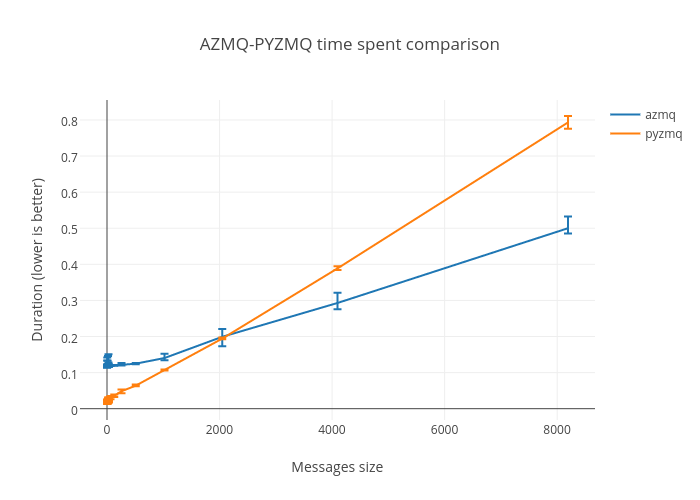
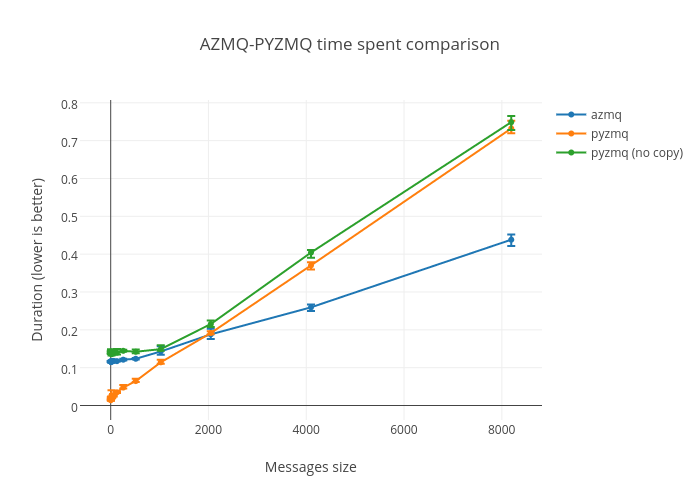
Updated benchmark to include copy=False

diff --git a/benchmark/benchmark-client.py b/benchmark/benchmark-client.py
@@ -9,7 +9,7 @@ import zmq
 
 REPEAT = 10
 DISCARD_EXTREMES = 2
-MESSAGES_SIZES = list(range(32)) + [2 ** exp for exp in range(5, 14)]
+MESSAGES_SIZES = [2 ** exp for exp in range(14)]
 FRAMES_COUNT = 10
 MESSAGES_COUNT = 100
 ENDPOINTS = sys.argv[1:]
@@ -124,7 +124,55 @@ for messages_size in MESSAGES_SIZES:
     pyzmq_durations = sorted(pyzmq_durations)[
         DISCARD_EXTREMES:-DISCARD_EXTREMES
     ]
-    results.append((messages_size, azmq_durations, pyzmq_durations))
+    pyzmq_no_copy_durations = []
+
+    for index in range(1, REPEAT + 1):
+        ctx = zmq.Context()
+        dealer = ctx.socket(zmq.DEALER)
+
+        for endpoint in ENDPOINTS:
+            dealer.connect(endpoint)
+
+        logger.info(
+            "pyzmq (no copy) - %s - %s/%s - Started.",
+            messages_size,
+            index,
+            REPEAT,
+        )
+
+        try:
+            before = timefunc()
+
+            for msg in messages:
+                dealer.send_multipart(msg, copy=False)
+
+            for _ in range(len(messages)):
+                dealer.recv_multipart(copy=False)
+        finally:
+            after = timefunc()
+            duration = after - before
+            pyzmq_no_copy_durations.append(duration)
+            logger.info(
+                "pyzmq - %s - %s/%s - Stopped. Duration: %.2f second(s).",
+                messages_size,
+                index,
+                REPEAT,
+                duration,
+            )
+            dealer.close()
+            ctx.destroy()
+
+    pyzmq_no_copy_durations = sorted(pyzmq_no_copy_durations)[
+        DISCARD_EXTREMES:-DISCARD_EXTREMES
+    ]
+    results.append(
+        (
+            messages_size,
+            azmq_durations,
+            pyzmq_durations,
+            pyzmq_no_copy_durations,
+        ),
+    )
 
 # Generate the data for the graph.
 from numpy import mean
@@ -138,35 +186,52 @@ from plotly.graph_objs import (
 data = [
     Scatter(
         name='azmq',
-        x=[messages_size for messages_size, _, _ in results],
-        y=[mean(durations) for _, durations, _ in results],
+        x=[messages_size for messages_size, _, _, _ in results],
+        y=[mean(durations) for _, durations, _, _ in results],
         error_y=dict(
             type='data',
             symmetric=False,
             array=[
                 max(durations) - mean(durations)
-                for _, durations, _ in results
+                for _, durations, _, _ in results
             ],
             arrayminus=[
                 mean(durations) - min(durations)
-                for _, durations, _ in results
+                for _, durations, _, _ in results
             ],
         ),
     ),
     Scatter(
         name='pyzmq',
-        x=[messages_size for messages_size, _, _ in results],
-        y=[mean(durations) for _, _, durations in results],
+        x=[messages_size for messages_size, _, _, _ in results],
+        y=[mean(durations) for _, _, durations, _ in results],
         error_y=dict(
             type='data',
             symmetric=False,
             array=[
                 max(durations) - mean(durations)
-                for _, _, durations in results
+                for _, _, durations, _ in results
             ],
             arrayminus=[
                 mean(durations) - min(durations)
-                for _, _, durations in results
+                for _, _, durations, _ in results
+            ],
+        ),
+    ),
+    Scatter(
+        name='pyzmq (no copy)',
+        x=[messages_size for messages_size, _, _, _ in results],
+        y=[mean(durations) for _, _, _, durations in results],
+        error_y=dict(
+            type='data',
+            symmetric=False,
+            array=[
+                max(durations) - mean(durations)
+                for _, _, _, durations in results
+            ],
+            arrayminus=[
+                mean(durations) - min(durations)
+                for _, _, _, durations in results
             ],
         ),
     ),

diff --git a/README.md b/README.md
@@ -67,11 +67,35 @@ AZMQ is fairly recent and only a few benchmarks where made to assert his (in)eff
 
 Here is a graph that shows the time spent by AZMQ and the reference
 implementation (pyzmq) when sending a bunch of messages of different sizes and
-waiting for a reply for each of those.
+waiting for a reply for each of those, over a LAN. The time spent by the
+generation of the messages or to establish the various connections is **NOT**
+contained in these measurements. Only the sending and receive of messages.
 
 Details about the methodology can be found in the [benchmark](benchmark) folder.
 
+<p align="center">
 ![graph](benchmark/azmq_pyzmq_time_spent_comparison.png)
+</p>
+
+From the benchmark, it seems that `azmq` is greatly outperformed (by a factor
+of 10) for small messages by `pyzmq`. This is no surprise provided that:
+
+- `azmq` is a pure Python library. `pyzmq` is a Python wrapper around the official `libzmq`, a C library.
+- `azmq` was never optimized as of now.
+- For small messages, which usually take less time to send on the wire, the
+  overhead of pure Python code is more significant and thus, noticeable. In
+  affine functions terms, **the `azmq` graph has a bigger constant**.
+
+However, it seems for bigger messages, `azmq` takes less time than `pyzmq`.
+This could be explained by the fact that messages are carried by reference
+inside all of `azmq` because those almost never leave the Python realm.
+
+For some weird reason, using `copy=False` in `pyzmq` results in the worst of
+both worlds.
+
+**Theories for those results or insights on the benchmark methodology are
+welcome**. The goal is not to lie about the library's performance, quite the
+opposite.
 
 ## Installation
 
